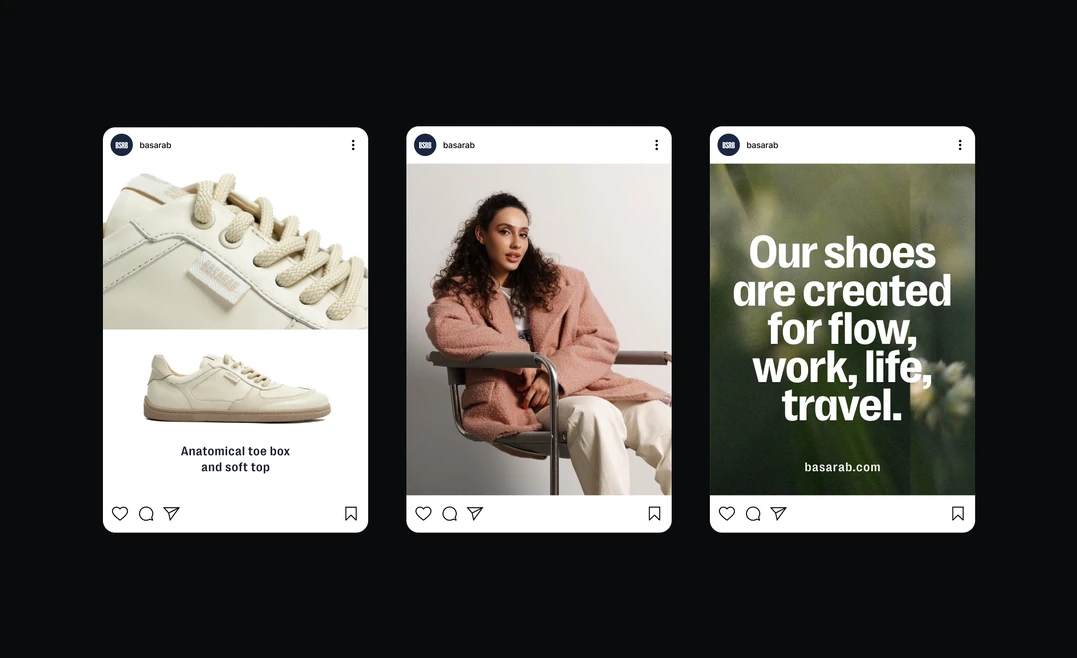
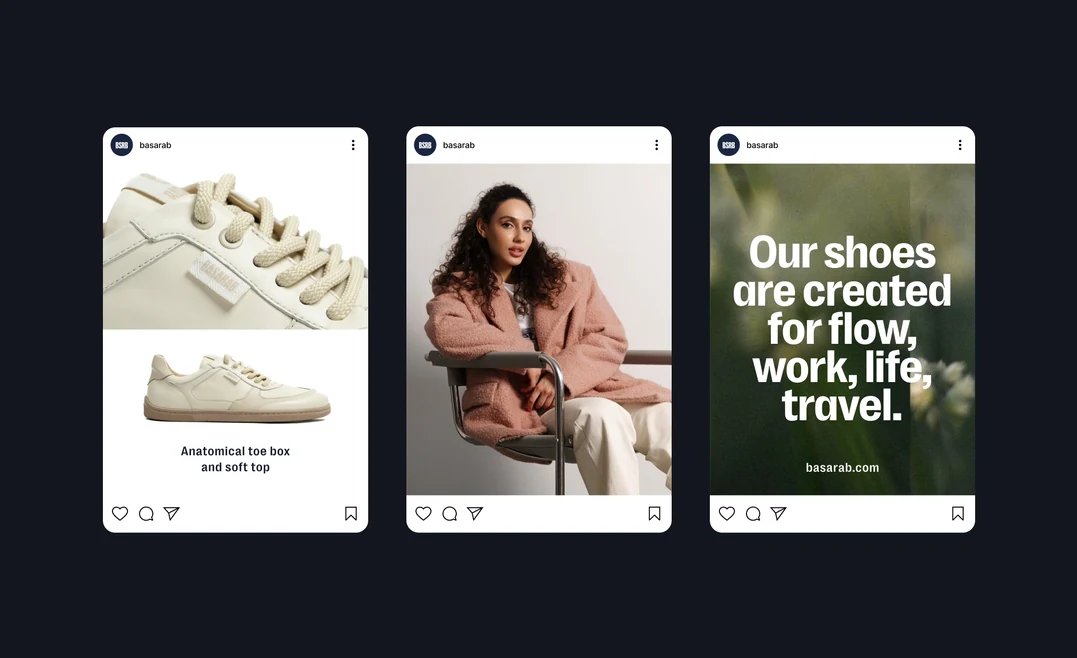
Basarab: Instagram posts slot cycles the three Figma post sets (hard cut, 0.7s)
Claude-Session: https://claude.ai/code/session_01GeHfkhDBmRktRQFVq6ywLt

Changed region(s): [[0.3983, 0.2736, 0.6435, 0.7599], [0.7354, 0.6991, 0.8273, 0.7295], [0.6128, 0.5167, 0.6435, 0.5471]]

diff --git a/index.html b/index.html
@@ -947,6 +947,24 @@
       transition: opacity 0.6s cubic-bezier(0.4, 0, 0.2, 1);
     }
 
+    #case-basarab .case__media--ig {
+      position: relative;
+      aspect-ratio: 2030 / 1240;
+    }
+
+    #case-basarab .case__media--ig img {
+      position: absolute;
+      inset: 0;
+      width: 100%;
+      height: 100%;
+      object-fit: cover;
+      opacity: 0;
+    }
+
+    #case-basarab .case__media--ig img.is-active {
+      opacity: 1;
+    }
+
     #case-basarab .case__media--story {
       position: relative;
     }
@@ -2936,7 +2954,7 @@
 
     <div class="case__media reveal" style="--mh:22.438rem"><img loading="lazy" src="images/basarab-17.webp?v=4" alt="" width="2030" height="1240" /><img loading="lazy" class="case__media-mobile" src="images/basarab-m17.webp?v=4" alt="" width="1077" height="1077" /></div>
 
-    <div class="case__media reveal"><img loading="lazy" src="images/basarab-18.webp?v=4" srcset="images/basarab-18-1077.webp?v=4 1077w, images/basarab-18.webp?v=4 2030w" sizes="(max-width: 700px) 100vw, 1015px" alt="" width="2030" height="1240" /></div>
+    <div class="case__media case__media--ig reveal"><img loading="lazy" class="is-active" src="images/basarab-18.webp?v=5" srcset="images/basarab-18-1077.webp?v=5 1077w, images/basarab-18.webp?v=5 2030w" sizes="(max-width: 700px) 100vw, 1015px" alt="" width="2030" height="1240" /><img loading="lazy" src="images/basarab-18b.webp?v=5" srcset="images/basarab-18b-1077.webp?v=5 1077w, images/basarab-18b.webp?v=5 2030w" sizes="(max-width: 700px) 100vw, 1015px" alt="" width="2030" height="1240" /><img loading="lazy" src="images/basarab-18c.webp?v=5" srcset="images/basarab-18c-1077.webp?v=5 1077w, images/basarab-18c.webp?v=5 2030w" sizes="(max-width: 700px) 100vw, 1015px" alt="" width="2030" height="1240" /></div>
 
     <p class="case__quote case__quote--right case__quote-p--desktop reveal" data-en="Over time, the business outgrew the footwear brand format &lt;br&gt;and began producing clothing. We designed all the touchpoints &lt;br&gt;and prepared production-ready files for tags, labels, boxes, &lt;br&gt;ribbons, and many other items the business needed at that stage." data-ru="Со временем бизнес перерос формат обувного бренда и начал &lt;br&gt;выпускать одежду. Мы разработали дизайн всех носителей &lt;br&gt;и подготовили макеты для производства — бирки, ярлыки, &lt;br&gt;коробки, ленты и много других носителей, которые &lt;br&gt;необходимы были бизнесу на этом этапе.">Со временем бизнес перерос формат обувного бренда и начал <br>выпускать одежду. Мы разработали дизайн всех носителей <br>и подготовили макеты для производства — бирки, ярлыки, <br>коробки, ленты и много других носителей, которые <br>необходимы были бизнесу на этом этапе.</p>
     <p class="case__quote case__quote--right case__quote-p--mobile reveal" data-en="Over time, the business outgrew the footwear &lt;br&gt;brand format and began producing clothing. &lt;br&gt;We designed all the touchpoints and prepared &lt;br&gt;production-ready files for tags, labels, boxes, &lt;br&gt;ribbons, and many other items the business &lt;br&gt;needed at that stage." data-ru="Со временем бизнес перерос формат &lt;br&gt;обувного бренда и начал выпускать одежду. &lt;br&gt;Мы разработали дизайн всех носителей &lt;br&gt;и подготовили макеты для производства — &lt;br&gt;бирки, ярлыки, коробки, ленты и много &lt;br&gt;других носителей, которые необходимы &lt;br&gt;были бизнесу на этом этапе.">Со временем бизнес перерос формат <br>обувного бренда и начал выпускать одежду. <br>Мы разработали дизайн всех носителей <br>и подготовили макеты для производства — <br>бирки, ярлыки, коробки, ленты и много <br>других носителей, которые необходимы <br>были бизнесу на этом этапе.</p>
@@ -4033,7 +4051,7 @@
     });
   })();
 
-  // Image cyclers: cross-fading sets (Foundation Instagram posts, Basarab photo series).
+  // Image cyclers: cross-fading sets (Foundation Instagram posts, Basarab photo series) and Basarab's hard-cut Instagram posts.
   (function () {
     var reduceMotion = window.matchMedia('(prefers-reduced-motion: reduce)').matches;
     if (reduceMotion) return;
@@ -4055,6 +4073,7 @@
     cycle('.case__media--ig-fade', 2800);
     cycle('.case__media-mobile--cycle-fade', 2800);
     cycle('.case__media--slides', 2000);
+    cycle('.case__media--ig', 700);
   })();
 
   // Desktop custom cursor label («смотреть» / «скоро») over project images.

diff --git a/CLAUDE.md b/CLAUDE.md
@@ -281,6 +281,11 @@ four photos stacked (`basarab-10`, then `-10b/-10c/-10d` from Figma section
 Driven by the shared `cycle()` IIFE; the slot gets `aspect-ratio` so it keeps
 its height on phones where the case's slot height is auto.
 
+Slot 18 (Instagram posts) is `.case__media--ig`: Figma section `72:252` «insta»,
+frames 14.1–14.3 (`basarab-18/-18b/-18c` + `-1077`, navy field), hard cut every
+0.7s like her reference clip (6 sets, 21 frames at 30fps each), via `cycle()`.
+The slot gets `aspect-ratio` for phones, like the slides slot.
+
 Layout: media are butt-joined (no gaps anywhere); full-width slots 620px,
 rows and `.case__media--600` 600px, `.case__row--short` 427px; 32px from
 media to text, 48px from text to media (intro and quotes, ≥701px), 48px
